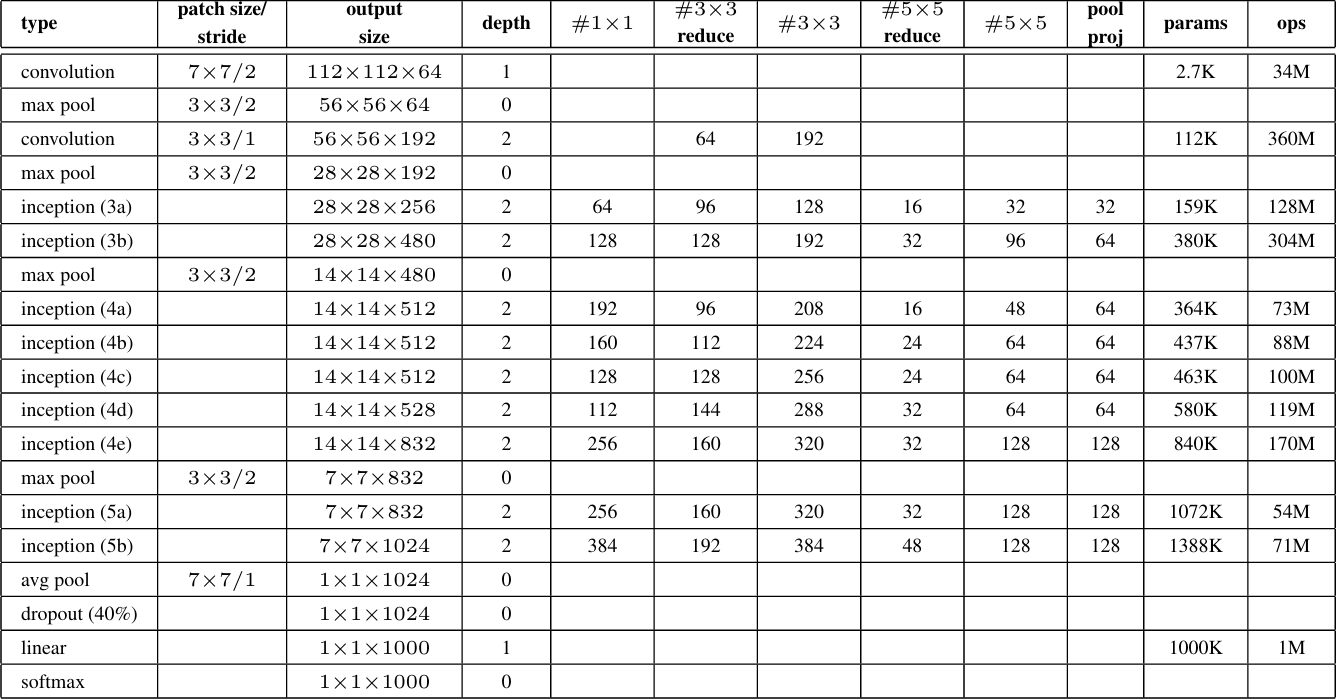
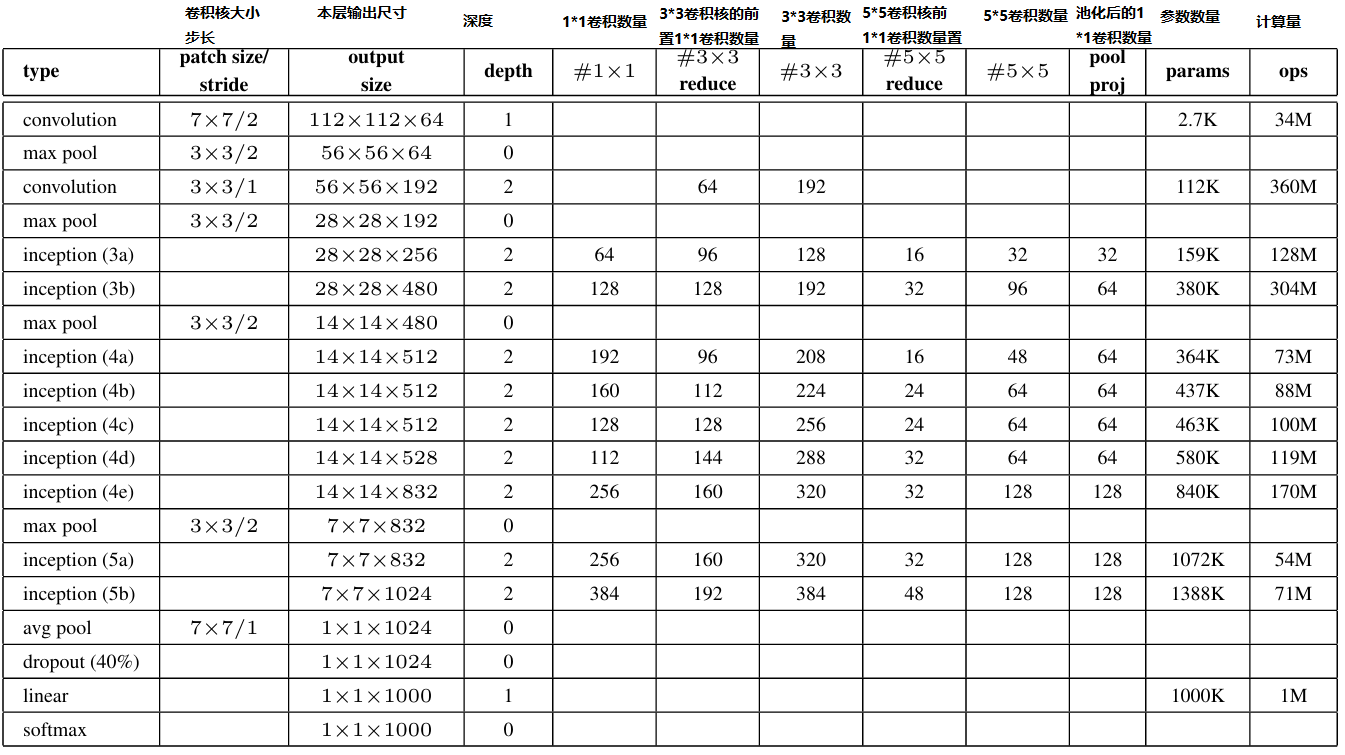
GoogLeNet

Changed region(s): [[0.0, 0.0, 1.0, 1.0]]

diff --git a/docs/ai/image_classification/googlenet/README.md b/docs/ai/image_classification/googlenet/README.md
@@ -21,6 +21,10 @@ collapsable: true
 
 ![](./2.png)
 
+此外，GoogLeNet团队还对该模型设置了辅助分类器（结构如下图），在训练过程中，最终的损失=模型输出损失+辅助分类器损失*0.3，可以避免梯度消失等问题，保证了隐藏层单元参与了特征计算，辅助分类器只参与模型训练，在实际预测的时候辅助分类器会被丢弃。
+
+![](./4.png)
+
 ## GoogLeNet结构
 
 首先查看一下官方给出的模型结构图和结构表（右键--在新建标签页中打开，可以查看高清图像，或者在论文中查看原图）
@@ -35,4 +39,320 @@ collapsable: true
 **最大池化层** 池化核长3 步长2 得到结果 56\*56\*64 <br>
 **卷积层** 卷积核长3 步长1 填充1 输出维度192 得到结果 56\*56\*192 <br>
 **最大池化层** 池化核长3 步长2 得到结果 28\*28\*192 <br>
-**inception(3a)**
+**inception(3a)则对应下面四条线** 
+>>1\*1卷积核 64个<br>
+>>1\*1卷积核 96个 -> 3\*3卷积核128个<br>
+>>1\*1卷积核 16个 -> 5\*5卷积核32个<br>
+>>3\*3最大池化 步长2 -> 1\*1卷积核32个
+
+以此类推，inception(3a),后面的结构和这个结构相似，根据上面表中的参数对卷积核的数量进行修改就可以了。
+
+## GoogLeNet代码实现（准备阶段）
+
+首先是实验环境，该实验使用的是青海民族大学的算力平台，在此感谢学校为我们提供的算力资源
+>CPU: Intel Xeon Gold 6330<br>
+    GPU: NVIDIA A800 80GB<br>
+    RAM: 503.4 GB<br>
+    OS: UBUNTU22.04<br>
+    python版本：3.10.11<br>
+    torch版本：2.2.1<br>
+    jupyter notebook<br>
+
+进入实验环境后，首先检查gpu是否正常：
+
+    if torch.cuda.is_available():
+        # 获取GPU设备数量
+        device_count = torch.cuda.device_count()
+        print(f"发现 {device_count} 个可用的GPU 设备")
+        # 获取每个GPU的名称
+        for i in range(device_count):
+            print(f"GPU 设备 {i}: {torch.cuda.get_device_name(i)}")
+    else:
+        print("没有发现可用的GPU")
+![](./5.png)
+
+
+然后导入数据集，这次实验依旧使用mnist数据集，数据导入和预处理代码如下
+
+    from torchvision import transforms
+    from torchvision import datasets
+    from torch.utils.data import DataLoader
+    from torch.utils.data import Subset, random_split
+
+    batch_size = 300
+    transform = transforms.Compose([
+        transforms.ToTensor(),
+        transforms.Normalize((0.1307,),(0.3081)),
+        transforms.Resize((224, 224))
+    ])
+    
+    train_dataset = datasets.MNIST(root='./dataset/mnist/',train=True,download=True,
+                                transform = transform)
+    train_loader = DataLoader(train_dataset,shuffle=True,batch_size=batch_size)
+    test_dataset = datasets.MNIST(root='./dataset/mnist/',train=False,download=True,
+                                transform = transform)
+    test_loader = DataLoader(test_dataset,shuffle=True,batch_size=batch_size)
+
+    
+## GoogLeNet代码实现（模型构建部分）
+首先，导入我们要用的第三方库
+
+    import torch
+    import torch.nn as nn
+    import torch.nn.functional as F
+
+模型的构建是一个自底向上的过程，我们先构建inception部分
+
+    class Inception(nn.Module):
+    def __init__(self, in_channels, conv1, conv3red, conv3, conv5red, conv5, pool_proj):
+        #传入参数列表：
+        #in_channels 输入通道数
+        #conv1 1*1卷积和个数
+        #conv3red 3*3前置1*1卷积数量 总之就是照着官方给的结构表填写参数
+        super(Inception, self).__init__()
+        self.branch1 =nn.Sequential(
+            #第一个分支，单1*1卷积
+            nn.Conv2d(in_channels, conv1, kernel_size=1),
+            nn.ReLU()
+        )
+        self.branch2 = nn.Sequential(
+            #第二个分支，1*1卷积接3*3卷积
+            nn.Conv2d(in_channels, conv3red, kernel_size=1),
+            nn.ReLU(),
+            nn.Conv2d(conv3red, conv3, kernel_size=3, padding=1),
+            nn.ReLU(),
+        )
+        self.branch3 = nn.Sequential(
+            #第三个分支，1*1卷积接5*5卷积
+            nn.Conv2d(in_channels, conv5red, kernel_size=1),
+            nn.ReLU(),
+            nn.Conv2d(conv5red, conv5, kernel_size=5, padding=2),
+            nn.ReLU()
+        )
+        self.branch4 = nn.Sequential(
+            #第四个分支，池化接1*1卷积
+            nn.MaxPool2d(kernel_size=3, stride=1, padding=1),
+            nn.ReLU(),
+            nn.Conv2d(in_channels, pool_proj, kernel_size=1),
+            nn.ReLU()
+        )
+    def forward(self, x):
+    #正向传播，计算四个分支的结果并且沿着第一个维度叠加
+        branch1 = self.branch1(x)
+        branch2 = self.branch2(x)
+        branch3 = self.branch3(x)
+        branch4 = self.branch4(x)
+        outputs = [branch1, branch2, branch3, branch4]
+        return torch.cat(outputs,1)
+
+接着构建辅助分类器
+
+    class AuxiliaryClassifier(nn.Module):
+        #辅助分类器
+        def __init__(self, in_channels, num_classes):
+            super(AuxiliaryClassifier, self).__init__()
+            self.averagePool = nn.AvgPool2d(kernel_size=5, stride=3)
+            self.conv = nn.Conv2d(in_channels, 128, kernel_size=1)
+            self.fc1 = nn.Linear(1152, 1024)
+            self.fc2 = nn.Linear(1024, num_classes)
+    
+        # 前向传播过程
+        def forward(self, x):
+            x = self.averagePool(x)
+            x = F.relu(self.conv(x))
+            x = torch.flatten(x, 1)
+            x = F.dropout(x, 0.5, training=self.training)
+            x = self.fc1(x)
+            x = F.relu(x)
+            x = F.dropout(x, 0.5, training=self.training)
+            x = self.fc2(x)
+            return x
+
+最后借助辅助分类器类和inception类构建整个GoogLeNet模型，模型中辅助分类器只在训练过程中生效：
+
+    class GoogLeNet(nn.Module):
+        def __init__(self):
+            super(GoogLeNet,self).__init__()
+            self.pool32 = nn.MaxPool2d(3,2)
+            self.conv1 = nn.Conv2d(1,64,7,2,3)
+            self.conv2 = nn.Conv2d(64,64,1,1)
+            self.conv3 = nn.Conv2d(64,192,3,1,1)
+            self.ince_3a = Inception(192,64,96,128,16,32,32)
+            self.ince_3b = Inception(256,128,128,192,32,96,64)
+            self.ince_4a = Inception(480,192,96,208,16,48,64)
+            self.aux1 = AuxiliaryClassifier(512,10)
+            self.ince_4b = Inception(512,160,112,224,24,64,64)
+            self.ince_4c = Inception(512,128,128,256,24,64,64)
+            self.ince_4d = Inception(512,112,144,288,32,64,64)
+            self.aux2 = AuxiliaryClassifier(528,10)
+            self.ince_4e = Inception(528,256,160,320,32,128,128)
+            self.ince_5a = Inception(832,256,160,320,32,128,128)
+            self.ince_5b = Inception(832,384,192,384,48,128,128)
+            self.avgpool = nn.AdaptiveAvgPool2d((1,1))
+            self.dropout = nn.Dropout(0.4)
+            self.fc = nn.Linear(1024,10)
+            self.relu = nn.ReLU()
+
+        def forward(self,x):
+            x = self.relu(self.conv1(x))
+            x = self.pool32(x)
+            x = self.relu(self.conv2(x))
+            x = self.relu(self.conv3(x))
+            x = self.pool32(x)
+            x = self.ince_3a(x)
+            x = self.ince_3b(x)
+            x = self.pool32(x)
+            x = self.ince_4a(x)
+            if self.training:
+                aux1 = self.aux1(x)
+            x = self.ince_4b(x)
+            x = self.ince_4c(x)
+            x = self.ince_4d(x)
+            if self.training:
+                aux2 = self.aux2(x)
+            x = self.ince_4e(x)
+            x = self.pool32(x)
+            x = self.pool32(x)
+            x = self.ince_5a(x)
+            x = self.ince_5b(x)
+            x = self.avgpool(x)
+            x = torch.flatten(x, 1)
+            x = self.dropout(x)
+            x = self.fc(x)
+            if self.training:
+                return x+0.3*aux1+0.3*aux2
+            return x
+        
+    #模型实例化
+    model = GoogLeNet()
+
+至此，模型已经构建成功，接下来进行模型的训练阶段
+
+## GoogLeNet代码实现（模型预处理部分）
+
+为了加快模型的训练过程，我们使用pytorch提供的GoogLeNet预训练模型对我们模型的一些参数赋值
+
+首先，读取pytorch提供的GoogLeNet预训练模型
+
+    googmodel = torch.hub.load('pytorch/vision:v0.10.0', 'googlenet', pretrained=True)
+
+然后将官方模型中和我们模型契合的层的权重赋值给我们的模型：
+
+    model.conv2.weight = googmodel.conv2.conv.weight
+    model.conv3.weight = googmodel.conv3.conv.weight
+    model.ince_3a.branch1[0].weight = googmodel.inception3a.branch1.conv.weight
+    model.ince_3a.branch2[0].weight = googmodel.inception3a.branch2[0].conv.weight
+    model.ince_3a.branch2[2].weight = googmodel.inception3a.branch2[1].conv.weight
+    model.ince_3a.branch3[0].weight = googmodel.inception3a.branch3[0].conv.weight
+    # model.ince_3a.branch3[2].weight = googmodel.inception3a.branch3[1].conv.weight
+    model.ince_3a.branch4[2].weight = googmodel.inception3a.branch4[1].conv.weight
+    model.ince_3b.branch2[0].weight = googmodel.inception3b.branch2[0].conv.weight
+    model.ince_3b.branch2[2].weight = googmodel.inception3b.branch2[1].conv.weight
+    model.ince_3b.branch3[0].weight = googmodel.inception3b.branch3[0].conv.weight
+    # model.ince_3b.branch3[2].weight = googmodel.inception3b.branch3[1].conv.weight
+    model.ince_3b.branch4[2].weight = googmodel.inception3b.branch4[1].conv.weight
+    model.ince_4a.branch2[0].weight = googmodel.inception4a.branch2[0].conv.weight
+    model.ince_4a.branch2[2].weight = googmodel.inception4a.branch2[1].conv.weight
+    model.ince_4a.branch3[0].weight = googmodel.inception4a.branch3[0].conv.weight
+    # model.ince_4a.branch3[2].weight = googmodel.inception4a.branch3[1].conv.weight
+    model.ince_4a.branch4[2].weight = googmodel.inception4a.branch4[1].conv.weight
+    model.ince_4b.branch2[0].weight = googmodel.inception4b.branch2[0].conv.weight
+    model.ince_4b.branch2[2].weight = googmodel.inception4b.branch2[1].conv.weight
+    model.ince_4b.branch3[0].weight = googmodel.inception4b.branch3[0].conv.weight
+    # model.ince_4b.branch3[2].weight = googmodel.inception4b.branch3[1].conv.weight
+    model.ince_4b.branch4[2].weight = googmodel.inception4b.branch4[1].conv.weight
+    model.ince_4c.branch2[0].weight = googmodel.inception4c.branch2[0].conv.weight
+    model.ince_4c.branch2[2].weight = googmodel.inception4c.branch2[1].conv.weight
+    model.ince_4c.branch3[0].weight = googmodel.inception4c.branch3[0].conv.weight
+    # model.ince_4c.branch3[2].weight = googmodel.inception4c.branch3[1].conv.weight
+    model.ince_4c.branch4[2].weight = googmodel.inception4c.branch4[1].conv.weight
+    model.ince_4d.branch2[0].weight = googmodel.inception4d.branch2[0].conv.weight
+    model.ince_4d.branch2[2].weight = googmodel.inception4d.branch2[1].conv.weight
+    model.ince_4d.branch3[0].weight = googmodel.inception4d.branch3[0].conv.weight
+    # model.ince_4d.branch3[2].weight = googmodel.inception4d.branch3[1].conv.weight
+    model.ince_4d.branch4[2].weight = googmodel.inception4d.branch4[1].conv.weight
+    model.ince_4e.branch2[0].weight = googmodel.inception4e.branch2[0].conv.weight
+    model.ince_4e.branch2[2].weight = googmodel.inception4e.branch2[1].conv.weight
+    model.ince_4e.branch3[0].weight = googmodel.inception4e.branch3[0].conv.weight
+    # model.ince_4e.branch3[2].weight = googmodel.inception4e.branch3[1].conv.weight
+    model.ince_4e.branch4[2].weight = googmodel.inception4e.branch4[1].conv.weight
+    model.ince_5a.branch2[0].weight = googmodel.inception5a.branch2[0].conv.weight
+    model.ince_5a.branch2[2].weight = googmodel.inception5a.branch2[1].conv.weight
+    model.ince_5a.branch3[0].weight = googmodel.inception5a.branch3[0].conv.weight
+    # model.ince_5a.branch3[2].weight = googmodel.inception5a.branch3[1].conv.weight
+    model.ince_5a.branch4[2].weight = googmodel.inception5a.branch4[1].conv.weight
+    model.ince_5b.branch2[0].weight = googmodel.inception5b.branch2[0].conv.weight
+    model.ince_5b.branch2[2].weight = googmodel.inception5b.branch2[1].conv.weight
+    model.ince_5b.branch3[0].weight = googmodel.inception5b.branch3[0].conv.weight
+    # model.ince_5b.branch3[2].weight = googmodel.inception5b.branch3[1].conv.weight
+    model.ince_5b.branch4[2].weight = googmodel.inception5b.branch4[1].conv.weight
+
+结束之后迁移模型至GPU
+
+    device = torch.device("cuda:0")
+    model.to(device)
+
+定义损失和优化器
+
+    import torch.optim as optim
+    criterion = torch.nn.CrossEntropyLoss()#交叉熵损失
+    optimizer = optim.SGD(model.parameters(),lr=0.001,momentum=0.7)
+
+## GoogLeNet代码实现（模型训练部分）
+
+构建训练和测试函数
+
+    def train(epoch):
+        model.train()
+        running_loss =0.0
+        for batch_idx,data in enumerate(train_loader,0):
+            inputs,labels = data
+            # print(labels)
+            inputs, labels = inputs.to(device), labels.to(device)
+            optimizer.zero_grad()
+            outputs = model(inputs)
+            # print(outputs)
+            loss = criterion(outputs,labels)
+            loss.backward()
+            optimizer.step()
+    
+            running_loss += loss.item()
+            if batch_idx % 50 == 49:
+                print(f'{epoch+1,batch_idx+1} loss :{running_loss/batch_idx}')
+
+    def test():
+        model.eval()
+        correct = 0
+        total = 0
+        with torch.no_grad():
+            for data in test_loader:
+                images,labels = data
+                images,labels = images.to(device),labels.to(device)
+                outputs=model(images)
+                _,predicted = torch.max(outputs.data,dim=1)#再1维度（横维度）查找最大的值，返回最大值,下标
+                total += labels.size(0)
+                correct +=(predicted == labels).sum().item()
+                # for i in range(len(predicted)):
+                    # print(f"预测值: {predicted[i]}, 真实值: {labels[i]}")
+        print(f'{100*correct/total}')
+
+循环训练模型
+
+    for i in range(50):
+        train(i)
+
+模型的收敛情况如下：
+
+![](./6.png)
+
+模型最初的损失为2.34666 可以看到损失已经下降了很多很多，且已经趋近于平滑，可以收工了，我们看一下测试情况：
+
+![](./7.png)
+
+这个准确率已经超过人类的水准了，人类的准确率在90%~95%之间。
+
+## 总结
+
+发现一个问题，pytorch中的GoogLeNet的网络结构和论文中的网络结构有一些差异，不知道是不是pytorch那边弄错了
+
+
